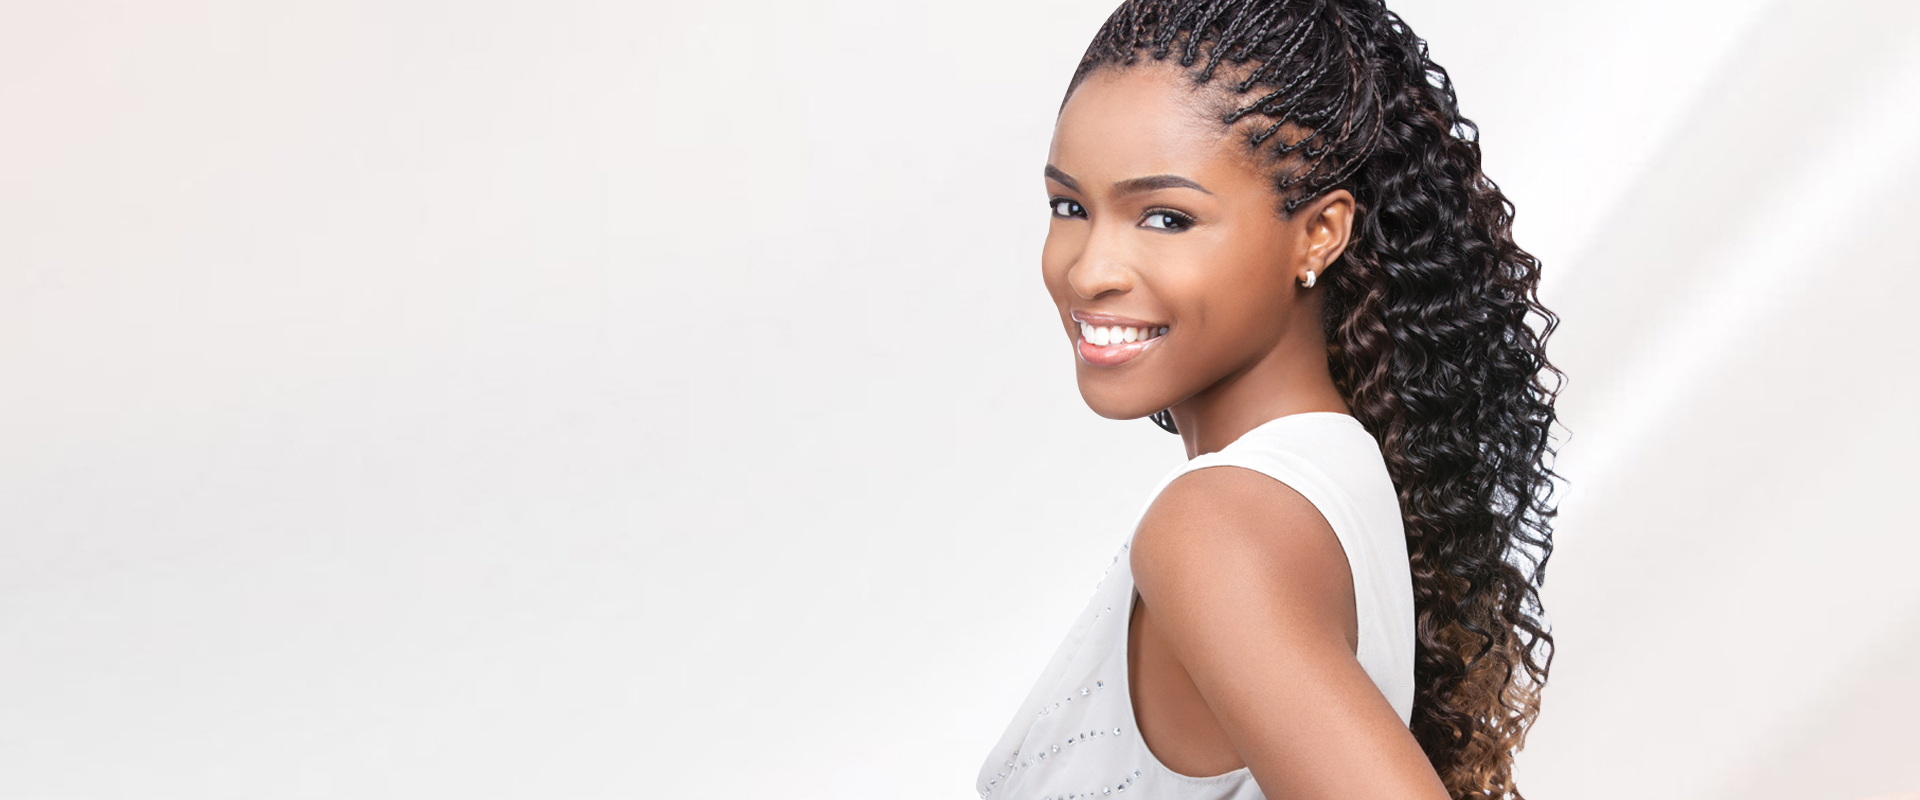
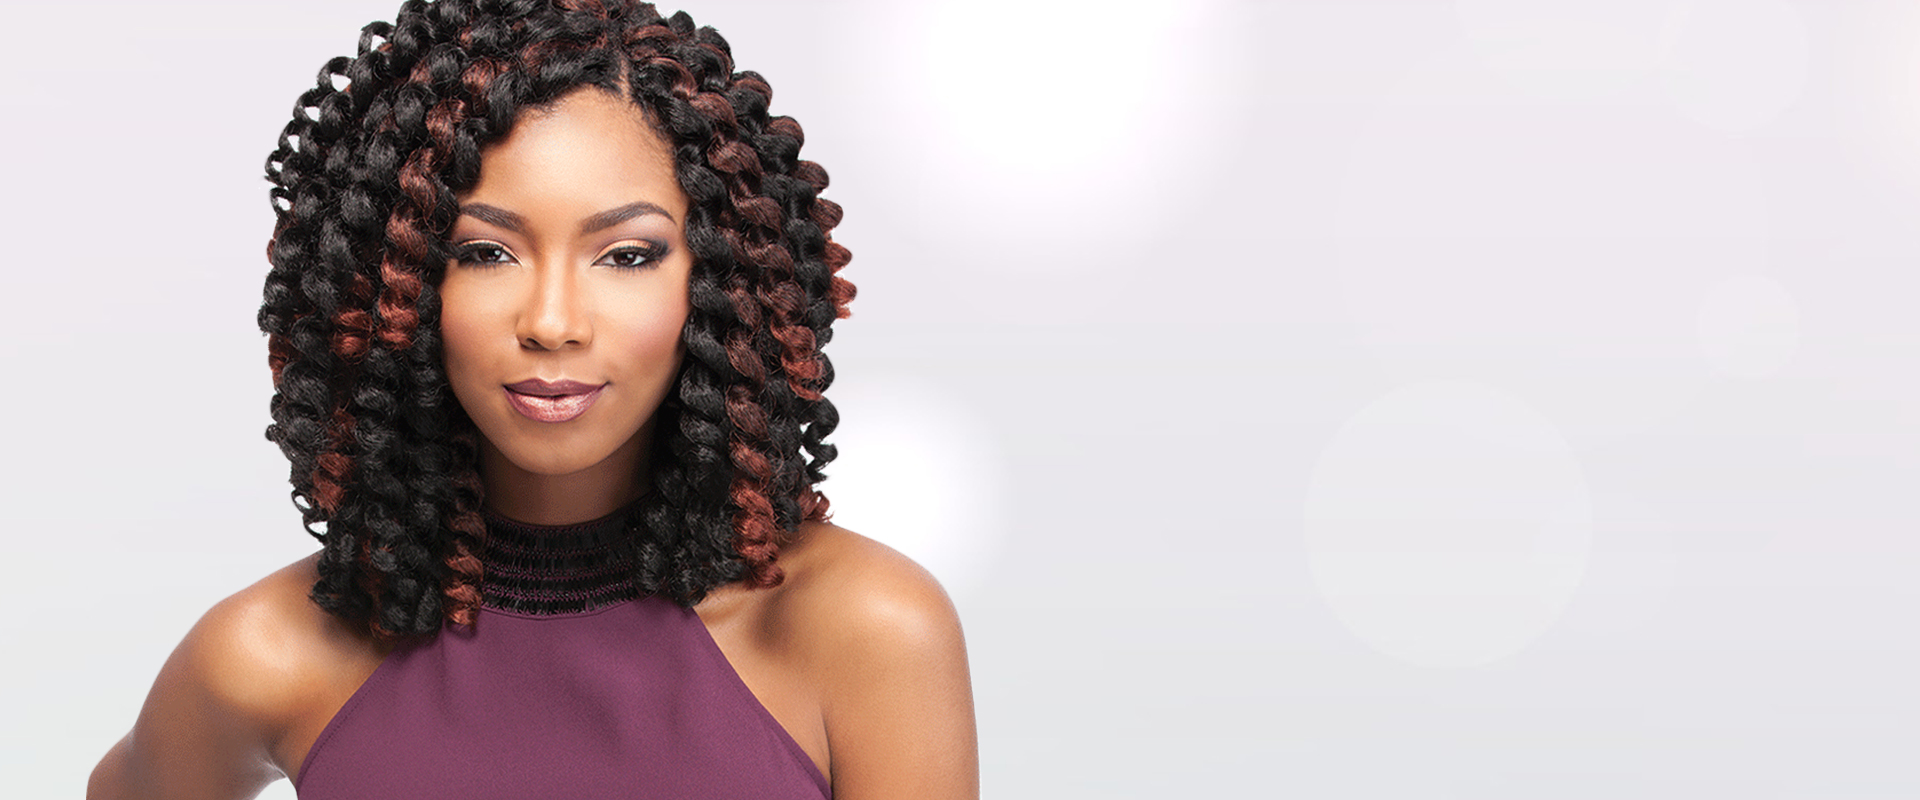
finish off carousel

diff --git a/assets/css/style.css b/assets/css/style.css
@@ -1242,9 +1242,22 @@ textarea.form-control {
   width: 100%;
   z-index: 100;
   background-color: #ec5598;
-  height: 45px; }
+  height: 45px;
+  
+  }
 
 @media (min-width: 320px) {
+  
+  .top-info-bar {
+position: fixed !important;
+top: 0px !important;
+  
+  }
+  
+  .main-slider {
+margin-top: 115px!important;
+}
+  
   .top-bar-right {
     text-align: left; } }
 

diff --git a/template-homepage.php b/template-homepage.php
@@ -16,30 +16,29 @@ get_header(); ?>
 
 
 <!-- MAIN SLIDER -->
-
-
     <section class="main-slider" data-loop="true" data-autoplay="true" data-interval="7000">
       <div class="inner">
 
         <!-- Slide One -->
-        <div class="slide slideResize slide1" style="background-image: url(http://allurestudio.co.za/revamp/wp-content/themes/storefront-child/assets/img/home/home-slider-1.jpg);">
-          
+       <div class="slide slideResize slide3" style="background-image: url(http://allurestudio.co.za/revamp/wp-content/themes/storefront-child/assets/img/home/home-slider-1.jpg);">
           <div class="container">
-            <div class="slide-inner1 common-inner">
-              <span class="h1 from-bottom">luxury spa resort</span><br>
-              <span class="h4 from-bottom">The real place of Mindfullness & Healthy body</span><br>
-              <a href="#" class="btn btn-primary first-btn waves-effect waves-light scale-up">More Details</a>
+            <div class="common-inner slide-inner3">
+            
+              <span class="h1 from-bottom">Perfect hair</span><br>
+              <span class="h4 from-bottom">Life isn't perfect, but your hair can be</span><br>
+              <a href="#pricelist" class="btn btn-primary first-btn waves-effect waves-light scale-up">More Details</a>
             </div>
           </div>
         </div>
 
         <!-- Slide Two -->
-        <div class="slide slideResize slide2" style="background-image: url(http://allurestudio.co.za/revamp/wp-content/themes/storefront-child/assets/img/home/home-slider-2.jpg);">
+          <div class="slide slideResize slide3" style="background-image: url(http://allurestudio.co.za/revamp/wp-content/themes/storefront-child/assets/img/home/home-slider-2.jpg);">
           <div class="container">
-            <div class="slide-inner2 common-inner">
-              <span class="h1 from-bottom">luxury spa resort</span><br>
-              <span class="h4 from-bottom">The real place of Mindfullness & Healthy body</span><br>
-              <a href="#" class="btn btn-primary first-btn waves-effect waves-light scale-up">More Details</a>
+            <div class="common-inner slide-inner3">
+          
+              <span class="h1 from-bottom">Hair-Vestment</span><br>
+              <span class="h4 from-bottom">Invest in your hair, you wear it everyday</span><br>
+              <a href="#appoinmentModal" class="btn btn-primary first-btn waves-effect waves-light scale-up">Book Now</a>
             </div>
           </div>
         </div>
@@ -48,27 +47,29 @@ get_header(); ?>
         <div class="slide slideResize slide3" style="background-image: url(http://allurestudio.co.za/revamp/wp-content/themes/storefront-child/assets/img/home/home-slider-3.jpg);">
           <div class="container">
             <div class="common-inner slide-inner3">
-        
-              <span class="h1 from-bottom">luxury spa resort</span><br>
-              <span class="h4 from-bottom">The real place of Mindfullness & Healthy body</span><br>
-              <a target="_blank" href="#" class="btn btn-primary first-btn waves-effect waves-light scale-up">Buy Now</a>
+             
+              <span class="h1 from-bottom">Hairlfie</span><br>
+              <span class="h4 from-bottom">Your hair is 90 % of your selfie</span><br>
+               <a href="#pricelist" class="btn btn-primary first-btn waves-effect waves-light scale-up">More Details</a>
             </div>
           </div>
         </div>
 
         <!-- Slide Four -->
-        <div class="slide slideResize slide4" style="background-image: url(http://allurestudio.co.za/revamp/wp-content/themes/storefront-child/assets/img/home/home-slider-4.jpg);">
+          <div class="slide slideResize slide3" style="background-image: url(http://allurestudio.co.za/revamp/wp-content/themes/storefront-child/assets/img/home/home-slider-4.jpg);">
           <div class="container">
-            <div class="common-inner slide-inner4">
-              <span class="h1 from-bottom">luxury spa resort</span><br>
-              <span class="h4 from-bottom">The real place of Mindfullness & Healthy body</span><br>
-              <a href="#" class="btn btn-primary first-btn waves-effect waves-light scale-up">More Details</a>
+            <div class="common-inner slide-inner3">
+            
+              <span class="h1 from-bottom">Beauty is about enhancing what you have.</span><br>
+              <span class="h4 from-bottom">TLet yourself shine through!!</span><br>
+               <a href="#appoinmentModal" class="btn btn-primary first-btn waves-effect waves-light scale-up">Book Now</a>
             </div>
           </div>
         </div>
 
       </div>
     </section>
+
 
 
     
